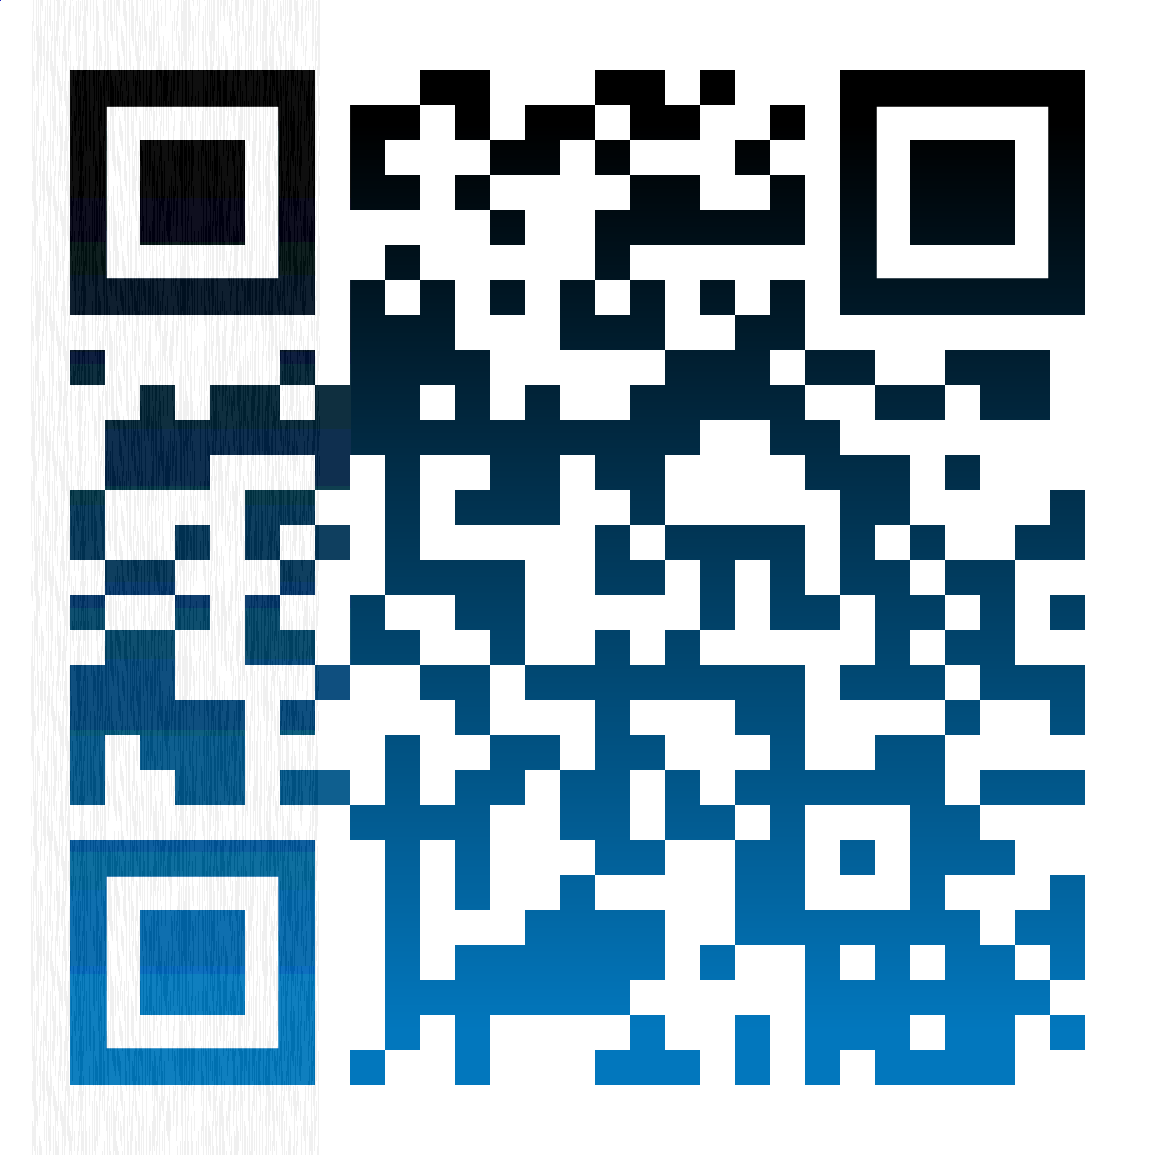
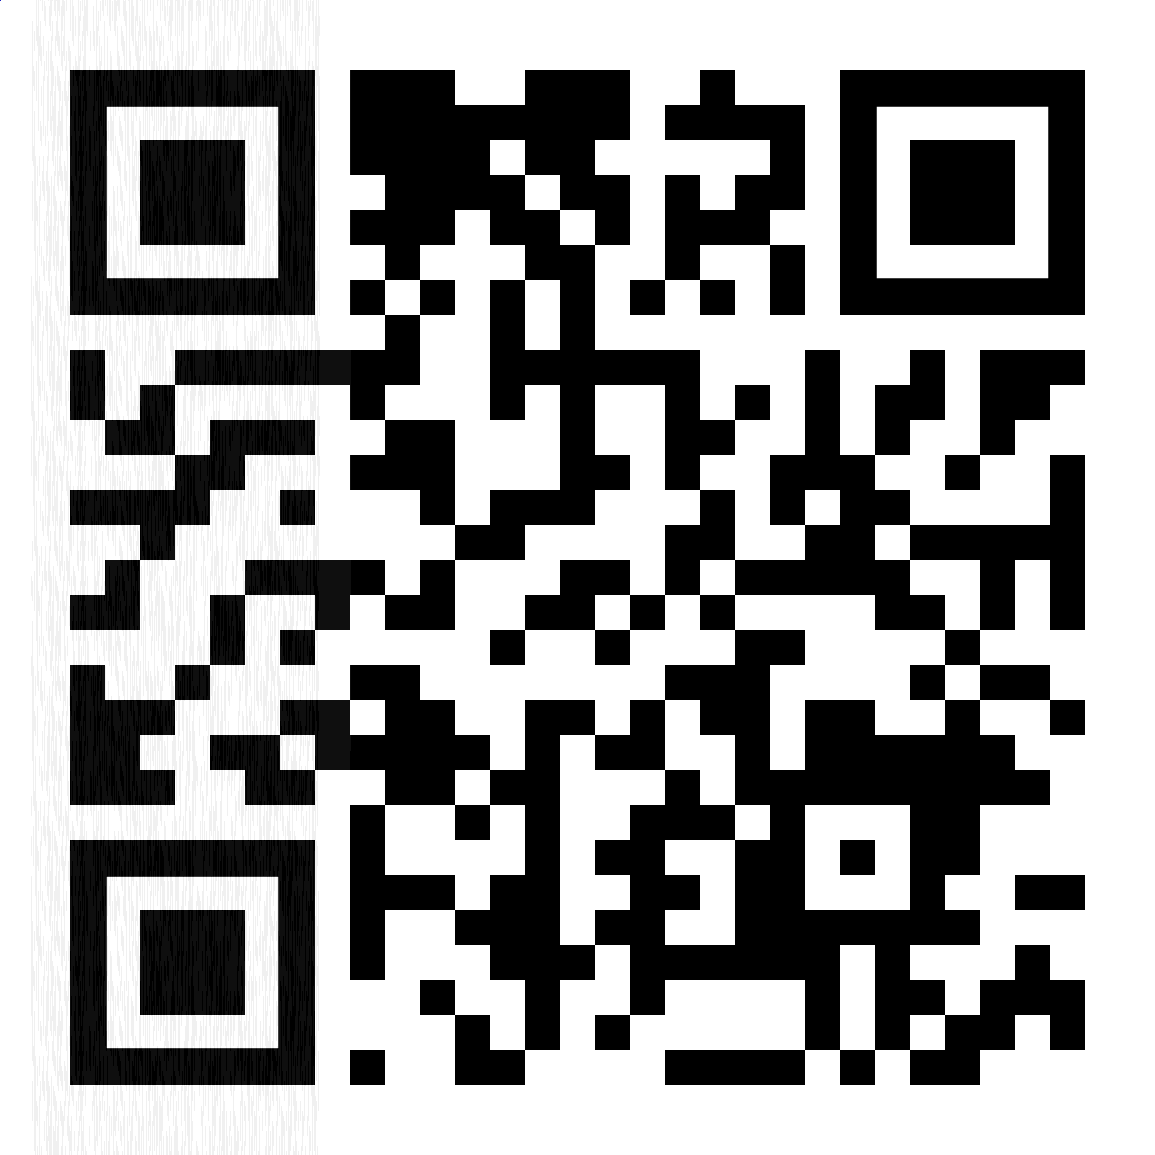
QR Bueno Negro (Se nota menos)

diff --git a/main.py b/main.py
@@ -46,7 +46,7 @@ while (1):
         print("Funciona generar el QR")
 
         #6. Meter el QR generado dentro del QR que redirecciona a la web de Coldplay
-        img_visible_path = "./qr_coldplay_5.png"
+        img_visible_path = "./qr_coldplay_bueno_negro.png"
         img_hiden_path = "./" + qr_name 
         output_path = "qr_coldplay_hidden.png"
         Encoder.hide_image(img_visible_path, img_hiden_path, output_path)
